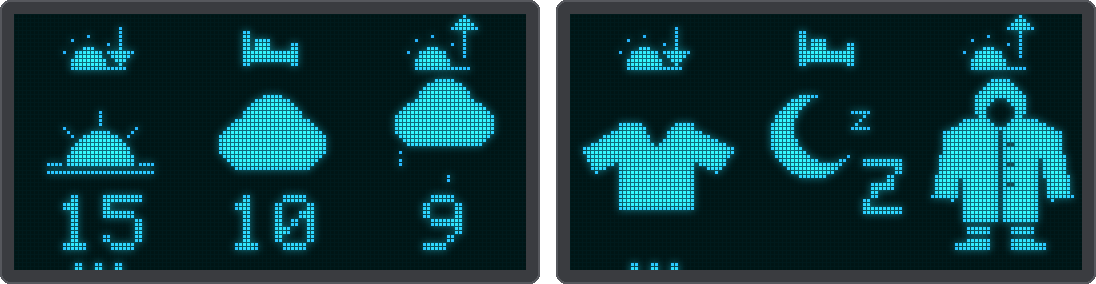
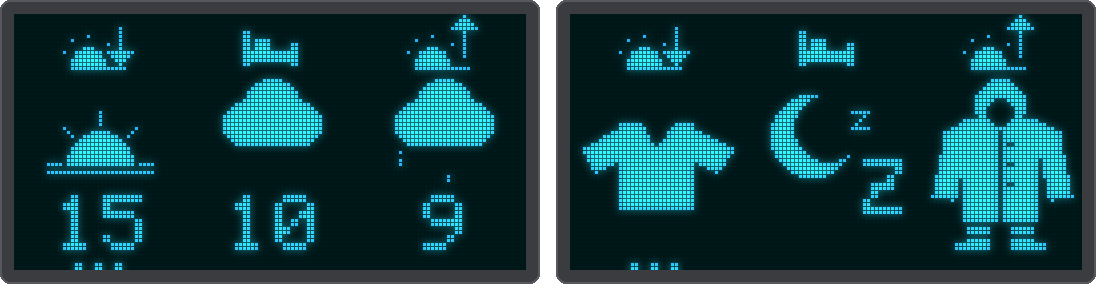
Kids time-lapse: the sun stays behind, clouds bring their rain
The time-lapse switched pictures at the hour: a cloud glided in, then the
sun disappeared and the rain started. Columns are now drawn in layers: the
sun or moon at the back (behind a big cloud the one of the column's dry
hours, so it stays through a shower), the small cloud of a partly cloudy
sky, and the big cloud with its rain, snow or lightning in front. A shower
cloud glides in already raining and glides away still raining; the drops
move with it and stay inside the column.

The cloudy picture now uses the same cloud as rain and snow (it sat lower
and was bigger), so nothing jumps when rain starts or stops.

Claude-Session: https://claude.ai/code/session_01BgTn1WcpSUXFywgbLdTvzG

Changed region(s): [[0.1861, 0.2535, 0.3102, 0.4507], [0.1861, 0.4789, 0.3102, 0.6197]]

diff --git a/firmware/src/display.cpp b/firmware/src/display.cpp
@@ -1023,7 +1023,7 @@ static void drawSmallSky(Adafruit_SSD1306 &d, int cx, int cy, int r, int light) 
 // `level` (KIDS_PRECIP_*) sets how many drops or flakes there are and how fast they fall. Drops splash on the
 // top edge of the number (x numLeft..numRight) and vanish beside it; flakes melt into it.
 static void drawSmallPrecip(Adafruit_SSD1306 &d, int cx, bool snow, int level, unsigned long frame, int numLeft,
-                            int numRight) {
+                            int numRight, int xmin = 0, int xmax = 127) {
     static const uint8_t DROPS[4] = { 2, 3, 5, 7 }, FLAKES[4] = { 2, 3, 4, 6 };
     static const uint8_t DROP_SPEED[4] = { 1, 2, 2, 3 };   // px per frame
     static const uint8_t DROP_LEN[4] = { 2, 2, 3, 3 };
@@ -1037,6 +1037,7 @@ static void drawSmallPrecip(Adafruit_SSD1306 &d, int cx, bool snow, int level, u
         unsigned cycle = (unsigned)(t / fall), pos = (unsigned)(t % fall);
         int x = cx - 11 + (int)((k * 7 + cycle * 5 + k * cycle * 3) % 23);   // a new place every cycle
         int y = top + (int)pos;
+        if (x - 2 < xmin || x + 2 > xmax) continue;        // under a cloud gliding past the column's edge
         if (snow) {
             if (y < top + 1 || y > ground - 1) continue;   // still in the cloud, or melted into the number
             int fx = x + (int)((cycle + pos / 3) % 2);     // drifting a little
@@ -1066,10 +1067,10 @@ static void drawSmallWeather(Adafruit_SSD1306 &d, int cx, int weather, int light
         drawSmallCloud(d, cx + 3, y + 8, 1, SSD1306_BLACK);
         drawSmallCloud(d, cx + 3, y + 8, 0, SSD1306_WHITE);
         break;
+    // Clouds, rain, a storm and snow: all the same cloud, high enough for the rain and snow to fall
     case KIDS_WEATHER_CLOUDY:
-        drawSmallCloud(d, cx, y + 4, 1, SSD1306_WHITE);
+        drawSmallCloud(d, cx, y - 1, 0, SSD1306_WHITE);
         break;
-    // Rain, a storm and snow: the cloud a little higher, so they fall a little longer
     case KIDS_WEATHER_RAIN:
         drawSmallCloud(d, cx, y - 1, 0, SSD1306_WHITE);
         drawSmallPrecip(d, cx, false, precip, frame, numLeft, numRight);
@@ -1121,60 +1122,82 @@ static void drawSmallCloudClipped(Adafruit_SSD1306 &d, int cx, int oy, int grow,
     if (x1 >= x0) d.fillRect(x0, oy + 11, x1 - x0 + 1, 6 + grow, color);
 }
 
-// How much of the sky a picture covers: 0 open sky, 1 a small cloud, 2 the big cloud (cloudy, rain, snow, storm);
-// -1 the wind picture, which does not glide
-static int skyCover(int weather) {
-    switch (weather) {
-    case KIDS_WEATHER_CLEAR:  return 0;
-    case KIDS_WEATHER_PARTLY: return 1;
-    case KIDS_WEATHER_WIND:   return -1;
-    default:                  return 2;
-    }
+static bool isBigCloud(int weather) {
+    return weather == KIDS_WEATHER_CLOUDY || weather == KIDS_WEATHER_RAIN || weather == KIDS_WEATHER_STORM ||
+           weather == KIDS_WEATHER_SNOW;
 }
 
-// Where a picture's cloud rests (centre x offset, top, grow)
-static void restingCloud(int weather, int &dx, int &oy, int &grow) {
-    const int y = 17;
-    if (weather == KIDS_WEATHER_PARTLY) { dx = 3; oy = y + 8; grow = 0; }
-    else if (weather == KIDS_WEATHER_CLOUDY) { dx = 0; oy = y + 4; grow = 1; }
-    else { dx = 0; oy = y - 1; grow = 0; }
-}
-
-// One column of the weather screen at a moment of its time-lapse: the picture of the hour it is at, and in the
-// last moments of an hour the change to the next one (wrapping round from the last hour to the first, so the
-// loop has no seam). A cloud glides in from the right as it clouds over and out to the left as it clears.
+// One column of the weather screen at a moment of its time-lapse, drawn in layers so the weather can change
+// smoothly: at the back the sun or moon (it stays while clouds pass in front of it), then the small cloud of
+// "partly cloudy", then the big cloud with its rain, snow or lightning. In the last moments of an hour the clouds
+// of the next hour glide in from the right, and clouds that are not in the next hour glide out to the left, each
+// taking its rain along; from the last hour back to the first too, so the loop has no seam.
 static void drawTimelapse(Adafruit_SSD1306 &d, int cx, const KidsColumn &c, unsigned long elapsedMs,
                           unsigned long loopMs, int numLeft, int numRight) {
+    const int y = 17;
     unsigned long frame = elapsedMs / RAIN_FRAME_INTERVAL;
     unsigned n = c.hours;
     unsigned long hourMs = loopMs / n;
     if (hourMs < KIDS_TIMELAPSE_MIN_HOUR_MS) hourMs = KIDS_TIMELAPSE_MIN_HOUR_MS;
     unsigned long phase = elapsedMs % (hourMs * n);
-    unsigned idx = (unsigned)(phase / hourMs);
+    unsigned idx = (unsigned)(phase / hourMs), nextIdx = (idx + 1) % n;
     unsigned long within = phase % hourMs;
-    int cur = c.hourWeather[idx], next = c.hourWeather[(idx + 1) % n];
-    unsigned long glideMs = hourMs / 2 < 900 ? hourMs / 2 : 900;
-    int from = skyCover(cur), to = skyCover(next);
-    bool gliding = within + glideMs >= hourMs && from >= 0 && to >= 0 && from != to;
-    if (!gliding) {
-        drawSmallWeather(d, cx, cur, c.light, c.hourPrecip[idx], frame, numLeft, numRight);
+    int cur = c.hourWeather[idx], next = c.hourWeather[nextIdx];
+
+    // The wind picture does not glide: it simply comes and goes with its hours
+    if (cur == KIDS_WEATHER_WIND) {
+        drawSmallWeather(d, cx, cur, c.light, 0, frame, numLeft, numRight);
         return;
     }
-    int p = (int)((within + glideMs - hourMs) * 100 / glideMs);   // 0..100 through the glide
+    unsigned long glideMs = hourMs / 2 < 900 ? hourMs / 2 : 900;
+    int p = within + glideMs >= hourMs ? (int)((within + glideMs - hourMs) * 100 / glideMs) : -1;   // 0..100
+    if (next == KIDS_WEATHER_WIND) p = -1;
     int xmin = cx - KIDS_COL_W / 2, xmax = cx + KIDS_COL_W / 2 - 1;
-    int dx, oy, grow;
-    if (to > from) {                       // clouding over: the next hour's cloud glides in over this hour's sky
-        drawSmallWeather(d, cx, cur, c.light, 0, frame, numLeft, numRight);
-        restingCloud(next, dx, oy, grow);
-        int x = cx + dx + (100 - p) * 32 / 100;
-        drawSmallCloudClipped(d, x, oy, grow + 1, SSD1306_BLACK, xmin, xmax);
-        drawSmallCloudClipped(d, x, oy, grow, SSD1306_WHITE, xmin, xmax);
-    } else {                               // clearing: this hour's cloud glides away from the next hour's sky
-        drawSmallWeather(d, cx, next, c.light, 0, frame, numLeft, numRight);
-        restingCloud(cur, dx, oy, grow);
-        int x = cx + dx - p * 32 / 100;
-        drawSmallCloudClipped(d, x, oy, grow + 1, SSD1306_BLACK, xmin, xmax);
-        drawSmallCloudClipped(d, x, oy, grow, SSD1306_WHITE, xmin, xmax);
+
+    // The sun or moon: the big one of a clear sky, the small one of a partly cloudy sky; behind a big cloud the
+    // one of the column's own dry hours (none when it never clears up)
+    bool clear = false, partly = false;
+    for (unsigned i = 0; i < n; i++) {
+        clear |= c.hourWeather[i] == KIDS_WEATHER_CLEAR;
+        partly |= c.hourWeather[i] == KIDS_WEATHER_PARTLY;
+    }
+    int body = cur == KIDS_WEATHER_CLEAR ? 2 : cur == KIDS_WEATHER_PARTLY ? 1 : clear ? 2 : partly ? 1 : 0;
+    if (body == 2) drawSmallSky(d, cx, y + 13, 7, c.light);
+    else if (body == 1) drawSmallSky(d, cx - 6, y + 7, 4, c.light);
+
+    // The small cloud of a partly cloudy sky
+    int smallX = cx + 3;
+    bool small = cur == KIDS_WEATHER_PARTLY;
+    if (p >= 0 && cur != KIDS_WEATHER_PARTLY && next == KIDS_WEATHER_PARTLY && !isBigCloud(cur)) {
+        small = true;                                   // gliding in
+        smallX += (100 - p) * 32 / 100;
+    } else if (p >= 0 && cur == KIDS_WEATHER_PARTLY && next == KIDS_WEATHER_CLEAR) {
+        smallX -= p * 32 / 100;                         // gliding out
+    }
+    if (small) {
+        drawSmallCloudClipped(d, smallX, y + 8, 1, SSD1306_BLACK, xmin, xmax);
+        drawSmallCloudClipped(d, smallX, y + 8, 0, SSD1306_WHITE, xmin, xmax);
+    }
+
+    // The big cloud, with the rain, snow or lightning of the hour it belongs to
+    int bigX = cx, owner = -1;
+    if (isBigCloud(cur)) {
+        owner = (int)idx;
+        if (p >= 0 && !isBigCloud(next)) bigX -= p * 32 / 100;               // gliding out, still raining
+    } else if (p >= 0 && isBigCloud(next)) {
+        owner = (int)nextIdx;                                                 // gliding in, already raining
+        bigX += (100 - p) * 32 / 100;
+    }
+    if (owner < 0) return;
+    int w = c.hourWeather[owner];
+    drawSmallCloudClipped(d, bigX, y - 1, 1, SSD1306_BLACK, xmin, xmax);
+    drawSmallCloudClipped(d, bigX, y - 1, 0, SSD1306_WHITE, xmin, xmax);
+    if (w == KIDS_WEATHER_STORM && bigX == cx) {
+        d.fillTriangle(cx - 1, y + 15, cx + 5, y + 15, cx - 3, y + 21, SSD1306_WHITE);   // lightning bolt
+        d.fillTriangle(cx - 4, y + 20, cx + 3, y + 20, cx - 4, y + 27, SSD1306_WHITE);
+    }
+    if (w == KIDS_WEATHER_RAIN || w == KIDS_WEATHER_STORM || w == KIDS_WEATHER_SNOW) {
+        drawSmallPrecip(d, bigX, w == KIDS_WEATHER_SNOW, c.hourPrecip[owner], frame, numLeft, numRight, xmin, xmax);
     }
 }
 

diff --git a/docs/kids.md b/docs/kids.md
@@ -81,8 +81,9 @@ rain, thunderstorm, snow, wind) and its temperature: a number to read, without a
 **A time-lapse of every part.** The weather screen plays the hours of each column one after the other, in the
 time the screen is shown: with the screens cycling every 12 s, a 6-hour afternoon gives each hour 2 s, so a
 shower at 15:00 rains for 2 s between sun before and after, and a wet afternoon rains for most of the 12 s. When
-the weather changes a cloud glides in from the right (it clouds over) or out to the left (it clears up), also from
-the last hour back to the first, so the loop has no seam. All columns play at once, each through its own hours;
+the weather changes a cloud glides in from the right (it clouds over) or out to the left (it clears up), taking
+its rain or snow along, while the sun or moon stays at the back; also from the last hour back to the first, so the
+loop has no seam. All columns play at once, each through its own hours;
 every hour gets at least 1.5 s. A screen you tap to plays in the time until it goes back home, and one that stays
 loops in 12 s. Steady weather simply stays.
 
